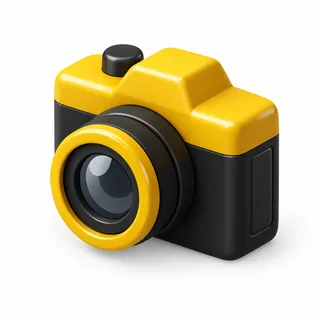
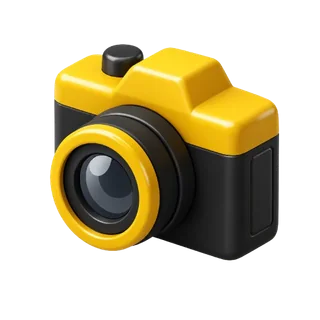
Refine photo upload result layout

diff --git a/src/components/DiscoverClient.tsx b/src/components/DiscoverClient.tsx
@@ -56,12 +56,8 @@ export function DiscoverClient({ initialMode = "photo" }: DiscoverClientProps) {
   const photoHasResults = Boolean(photoStatus || photoListings.length > 0);
   const hasUploadedPhoto = Boolean(uploadedPhoto);
   const sortedPhotoListings = useMemo(() => sortListings(photoListings), [photoListings]);
-  const bestPhotoListing = sortedPhotoListings[0];
   const hasOverflowContent = activeMode === "browse" || photoHasResults || hasUploadedPhoto;
-  const uploadedPhotoSize = uploadedPhoto ? `${Math.max(uploadedPhoto.size / 1024, 1).toFixed(0)} KB` : "";
-  const uploadedPhotoType = uploadedPhoto?.type ? uploadedPhoto.type.replace("image/", "").toUpperCase() : "Image";
-  const uploadedPhotoName = uploadedPhoto?.name || "Uploaded photo";
-  const bestPhotoPrice = isPhotoLoading ? "Checking" : (bestPhotoListing?.price ?? "Not found");
+  const photoMatchCount = isPhotoLoading ? "..." : sortedPhotoListings.length;
 
   useEffect(() => {
     if (!selectedGroup) {
@@ -251,7 +247,7 @@ export function DiscoverClient({ initialMode = "photo" }: DiscoverClientProps) {
             type="button"
             aria-pressed={activeMode === "photo"}
             onClick={() => setMode("photo")}
-            className={`relative z-10 flex h-11 items-center justify-center gap-2 rounded-full text-sm font-black transition-colors duration-300 ${
+            className={`relative z-10 flex h-11 min-w-0 items-center justify-center gap-1.5 rounded-full text-[clamp(0.75rem,3.3vw,0.875rem)] font-black transition-colors duration-300 ${
               activeMode === "photo" ? "text-white" : "text-stone-600"
             }`}
           >
@@ -262,7 +258,7 @@ export function DiscoverClient({ initialMode = "photo" }: DiscoverClientProps) {
             type="button"
             aria-pressed={activeMode === "browse"}
             onClick={() => setMode("browse")}
-            className={`relative z-10 flex h-11 items-center justify-center gap-2 rounded-full text-sm font-black transition-colors duration-300 ${
+            className={`relative z-10 flex h-11 min-w-0 items-center justify-center gap-1.5 rounded-full text-[clamp(0.75rem,3.3vw,0.875rem)] font-black transition-colors duration-300 ${
               activeMode === "browse" ? "text-white" : "text-stone-600"
             }`}
           >
@@ -289,32 +285,14 @@ export function DiscoverClient({ initialMode = "photo" }: DiscoverClientProps) {
                       <img src={uploadedPhoto.url} alt="Uploaded item" className="block max-h-[48dvh] w-full object-contain" />
                     </div>
 
-                    <section className="space-y-3">
-                      <div>
-                        <h1 className="text-[1.45rem] font-black leading-8 text-stone-950">Photo details</h1>
-                        <p className="mt-1 line-clamp-1 text-xs font-semibold text-stone-500">{uploadedPhotoName}</p>
+                    <section className="flex flex-col gap-3">
+                      <div className="flex flex-wrap items-center justify-between gap-3">
+                        <h1 className="text-[clamp(1.25rem,6vw,1.65rem)] font-black leading-tight text-stone-950">
+                          Marketplace <span className="text-[#E0B71D]">Matches ({photoMatchCount})</span>
+                        </h1>
                       </div>
 
-                      <div className="grid grid-cols-2 gap-2">
-                        <div className="rounded-[8px] bg-white p-3 ring-1 ring-stone-200">
-                          <p className="text-[11px] font-semibold uppercase tracking-[0.12em] text-stone-400">File</p>
-                          <p className="mt-1 text-sm font-black text-stone-950">{uploadedPhotoType}</p>
-                        </div>
-                        <div className="rounded-[8px] bg-white p-3 ring-1 ring-stone-200">
-                          <p className="text-[11px] font-semibold uppercase tracking-[0.12em] text-stone-400">Size</p>
-                          <p className="mt-1 text-sm font-black text-stone-950">{uploadedPhotoSize}</p>
-                        </div>
-                        <div className="rounded-[8px] bg-white p-3 ring-1 ring-stone-200">
-                          <p className="text-[11px] font-semibold uppercase tracking-[0.12em] text-stone-400">Matches</p>
-                          <p className="mt-1 text-sm font-black text-stone-950">{isPhotoLoading ? "Searching" : photoListings.length || "0"}</p>
-                        </div>
-                        <div className="rounded-[8px] bg-white p-3 ring-1 ring-stone-200">
-                          <p className="text-[11px] font-semibold uppercase tracking-[0.12em] text-stone-400">Best price</p>
-                          <p className="mt-1 text-sm font-black text-stone-950">{bestPhotoPrice}</p>
-                        </div>
-                      </div>
-
-                      <label className="inline-flex h-11 cursor-pointer items-center justify-center gap-2 rounded-full bg-stone-950 px-5 text-sm font-black text-white">
+                      <label className="inline-flex h-11 w-full cursor-pointer items-center justify-center gap-2 rounded-full bg-stone-950 px-5 text-sm font-black text-white min-[360px]:w-auto">
                         {isPhotoLoading ? <Loader2 aria-hidden="true" size={17} className="animate-spin" /> : <Upload aria-hidden="true" size={17} />}
                         {isPhotoLoading ? "Searching..." : "Change photo"}
                         <input
@@ -329,7 +307,6 @@ export function DiscoverClient({ initialMode = "photo" }: DiscoverClientProps) {
 
                     {(photoStatus || photoListings.length > 0) && (
                       <section className="space-y-3 pb-8">
-                        <h2 className="text-lg font-black">Marketplace matches</h2>
                         {photoStatus && <p className="rounded-[8px] bg-amber-50 p-3 text-sm text-amber-900 ring-1 ring-amber-200">{photoStatus}</p>}
                         <div className="divide-y divide-stone-200 rounded-[8px] bg-white px-4 ring-1 ring-stone-200">
                           {photoListings.slice(0, 8).map((listing) => (
@@ -348,16 +325,16 @@ export function DiscoverClient({ initialMode = "photo" }: DiscoverClientProps) {
                           alt=""
                           width={1254}
                           height={1254}
-                          className="h-auto w-28 md:w-36"
+                          className="h-auto w-[clamp(5.5rem,28vw,8rem)] md:w-36"
                           priority
                         />
                         <div>
-                          <h1 className="text-[1.65rem] font-black leading-[2.05rem] text-stone-950 md:text-5xl md:leading-[3.65rem]">
+                          <h1 className="text-[clamp(1.45rem,8vw,1.65rem)] font-black leading-tight text-stone-950 md:text-5xl md:leading-[3.65rem]">
                             Check The <span className="text-[#E0B71D]">Right</span> Price
                           </h1>
                         </div>
                       </div>
-                      <label className="flex h-14 w-[min(100%,240px)] cursor-pointer items-center justify-center gap-2 rounded-full bg-stone-950 px-4 text-sm font-black text-white shadow-sm">
+                      <label className="flex h-14 w-full cursor-pointer items-center justify-center gap-2 rounded-full bg-stone-950 px-4 text-sm font-black text-white shadow-sm min-[360px]:w-auto min-[360px]:px-8">
                         {isPhotoLoading ? <Loader2 aria-hidden="true" size={18} className="animate-spin" /> : <Upload aria-hidden="true" size={18} />}
                         {isPhotoLoading ? "Searching..." : "Choose photo"}
                         <input
